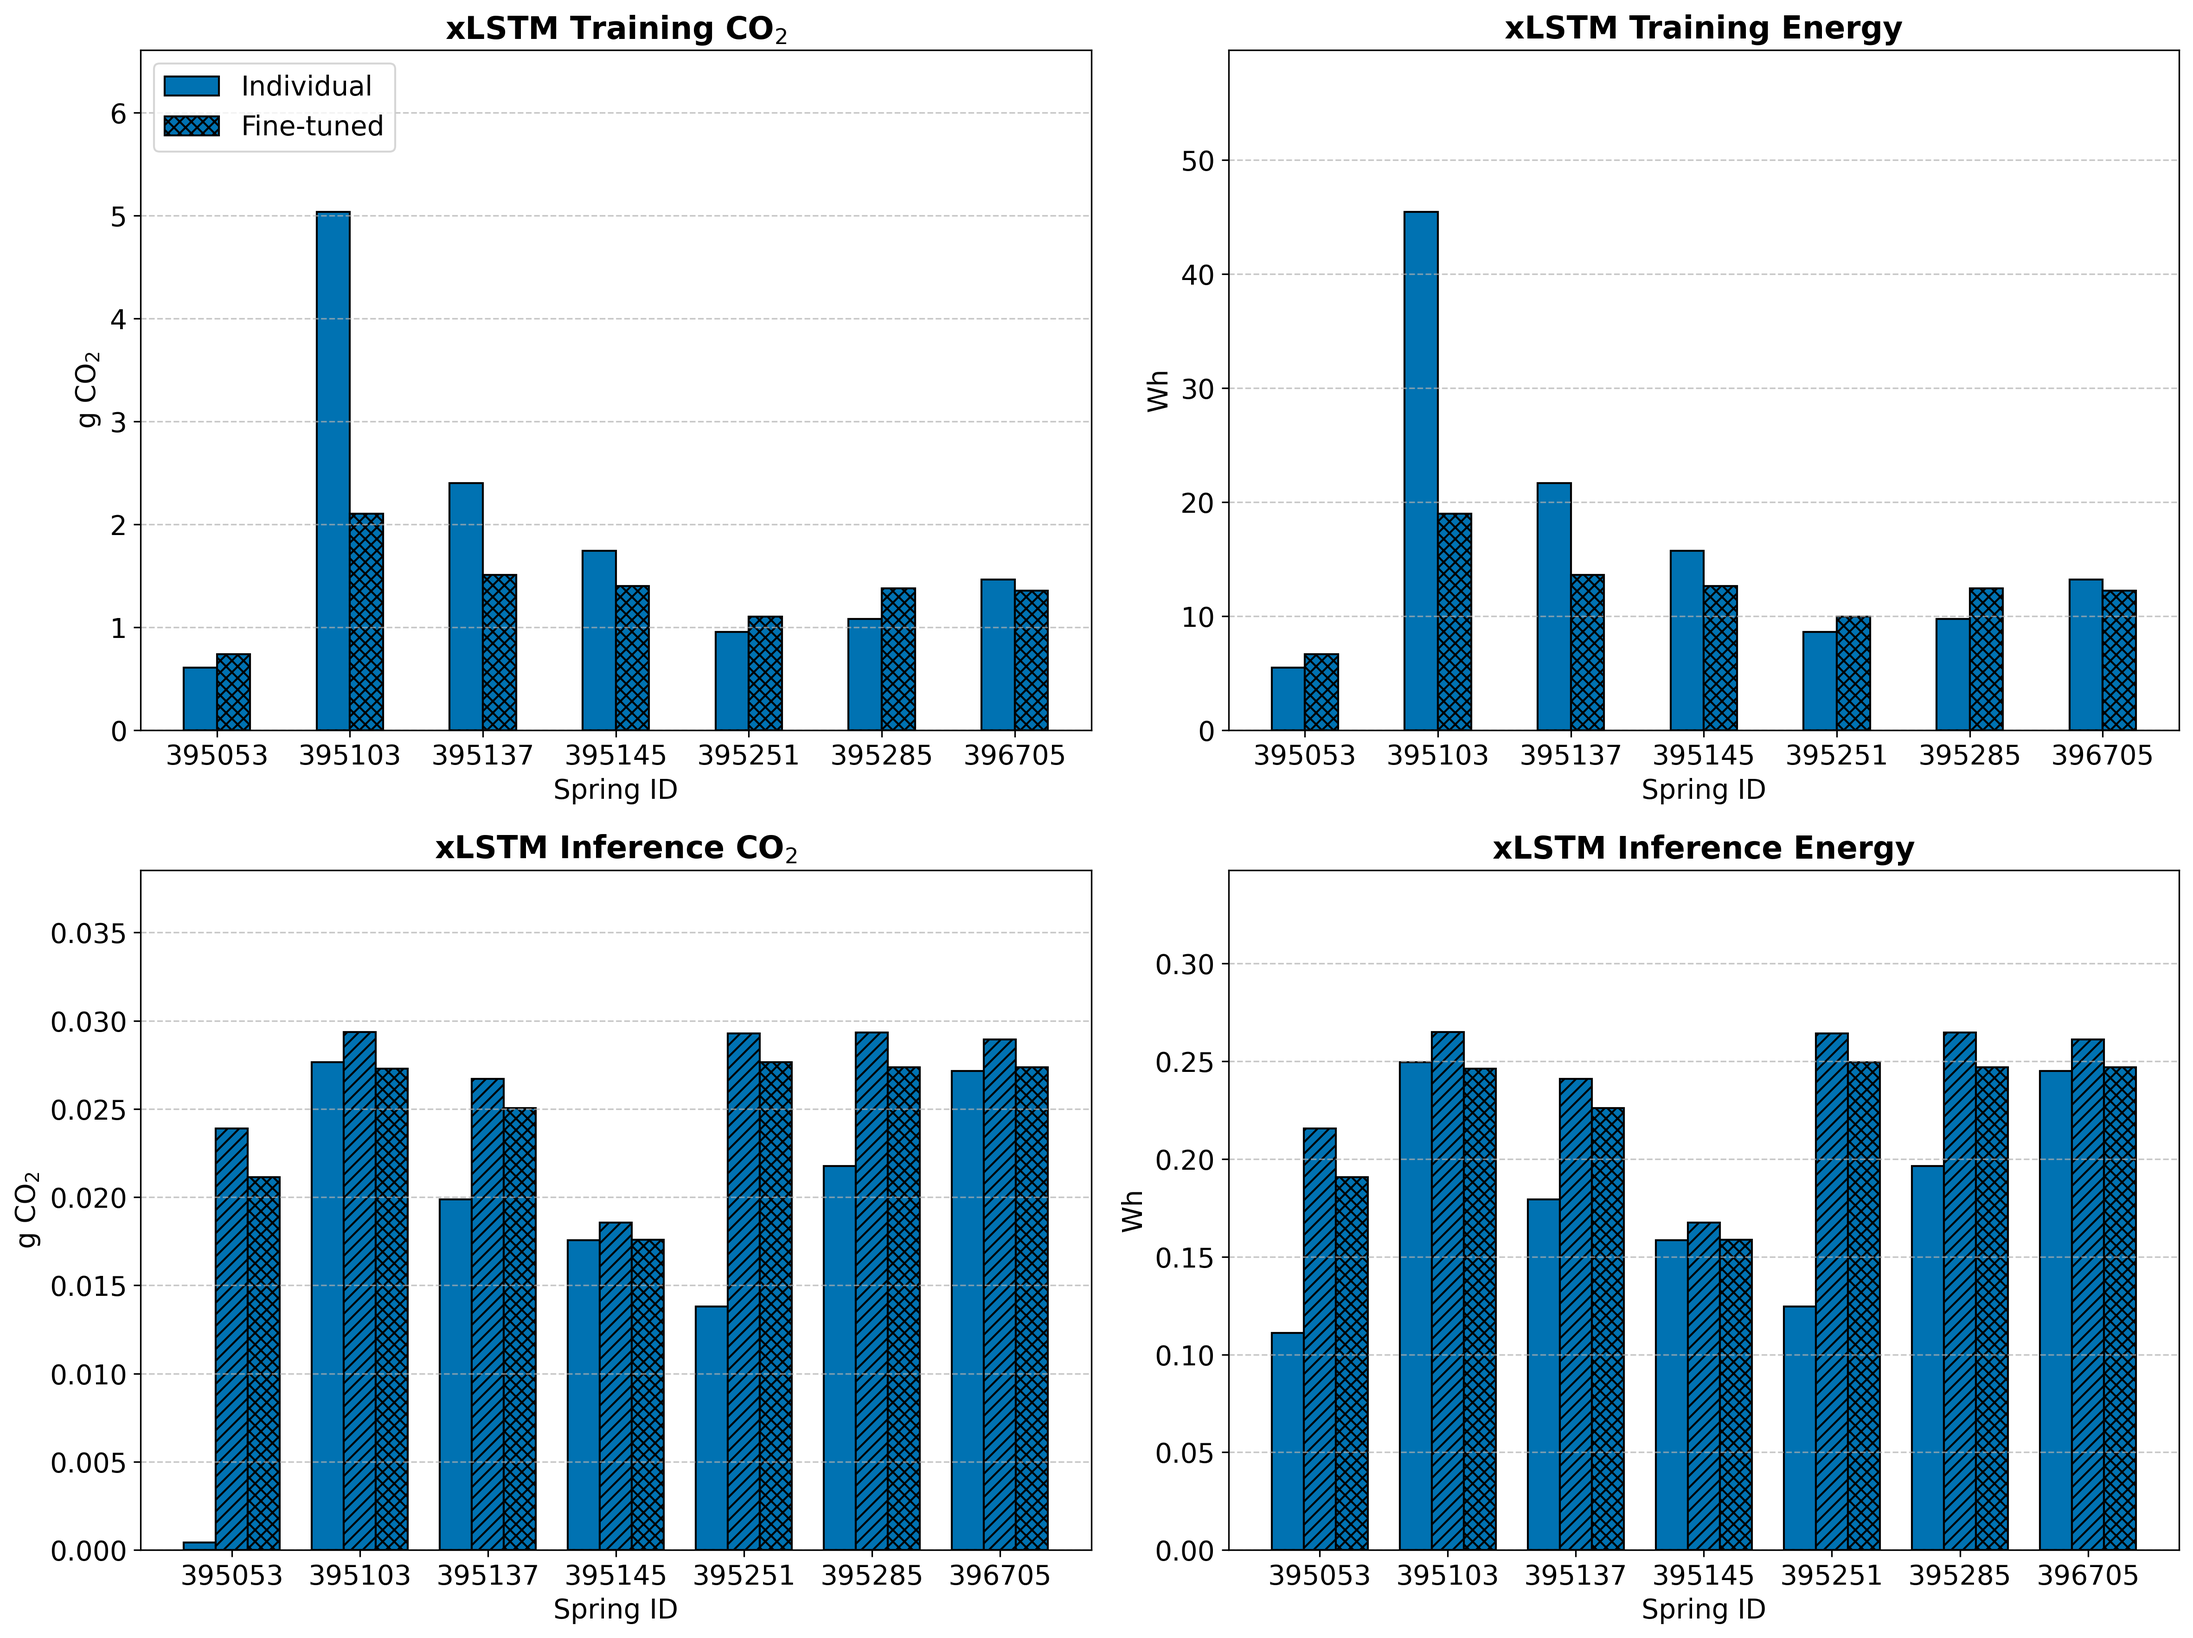
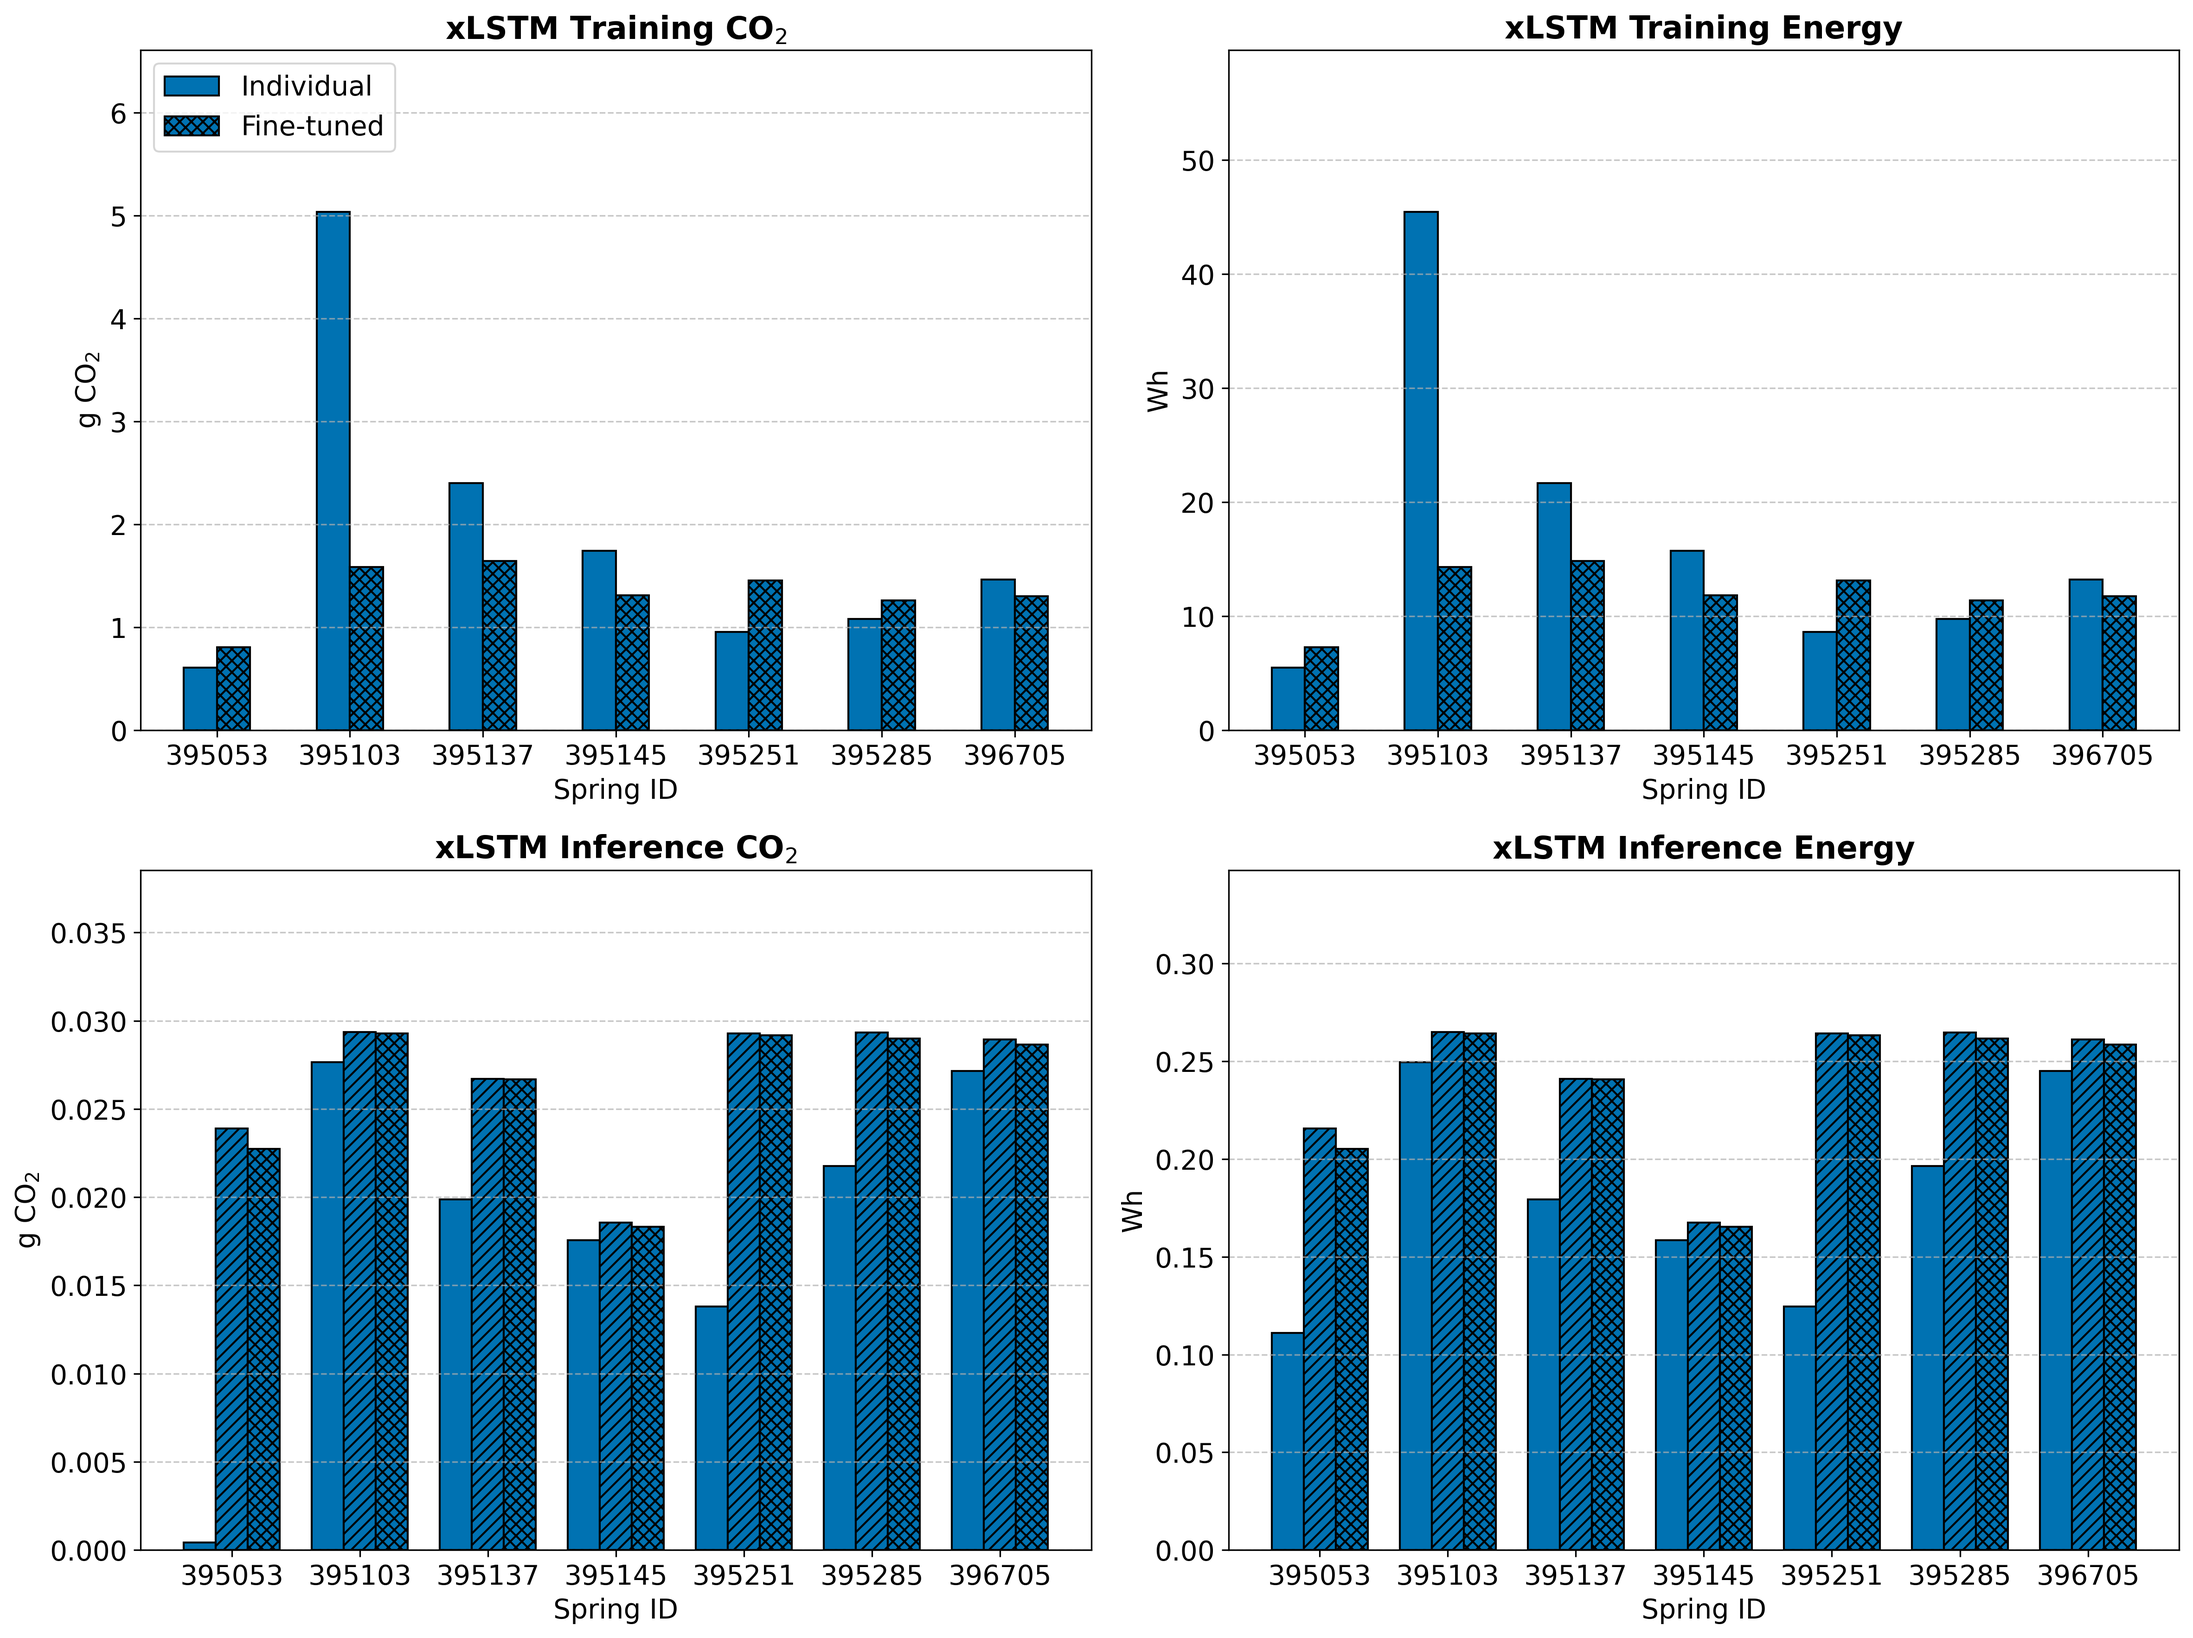
Update xLSTM plots with fixed transfer learning

diff --git a/evaluation/transfer/xlstm_transfer_barplots.py b/evaluation/transfer/xlstm_transfer_barplots.py
@@ -16,7 +16,7 @@ df_base = pd.read_csv('results/BASELINE_results_20260427_080304.csv')
 df_base_lk = pd.read_csv('results/BASELINE_LASTKNOWN_results_20260427_080725.csv')
 df_xlstm = pd.read_csv('results/xLSTM_results_20260608_090620.csv')
 df_xlstm_large = pd.read_csv('results/xLSTM_LARGE_results_20260612_065528.csv')
-df_xlstm_transfer = pd.read_csv('results/xLSTM_TRANSFER_results_20260715_153842.csv')
+df_xlstm_transfer = pd.read_csv('results/xLSTM_TRANSFER_results_20260727_083249.csv')
 
 # Get the 7 springs from xLSTM_TRANSFER
 transfer_springs = sorted(df_xlstm_transfer['spring_id'].unique())

diff --git a/evaluation/transfer/xlstm_transfer_energy_barplots.py b/evaluation/transfer/xlstm_transfer_energy_barplots.py
@@ -24,7 +24,7 @@ df_xlstm_large = pd.read_csv(
 )
 
 df_xlstm_transfer = pd.read_csv(
-    'results/xLSTM_TRANSFER_results_20260715_153842.csv'
+    'results/xLSTM_TRANSFER_results_20260727_083249.csv'
 )
 
 
